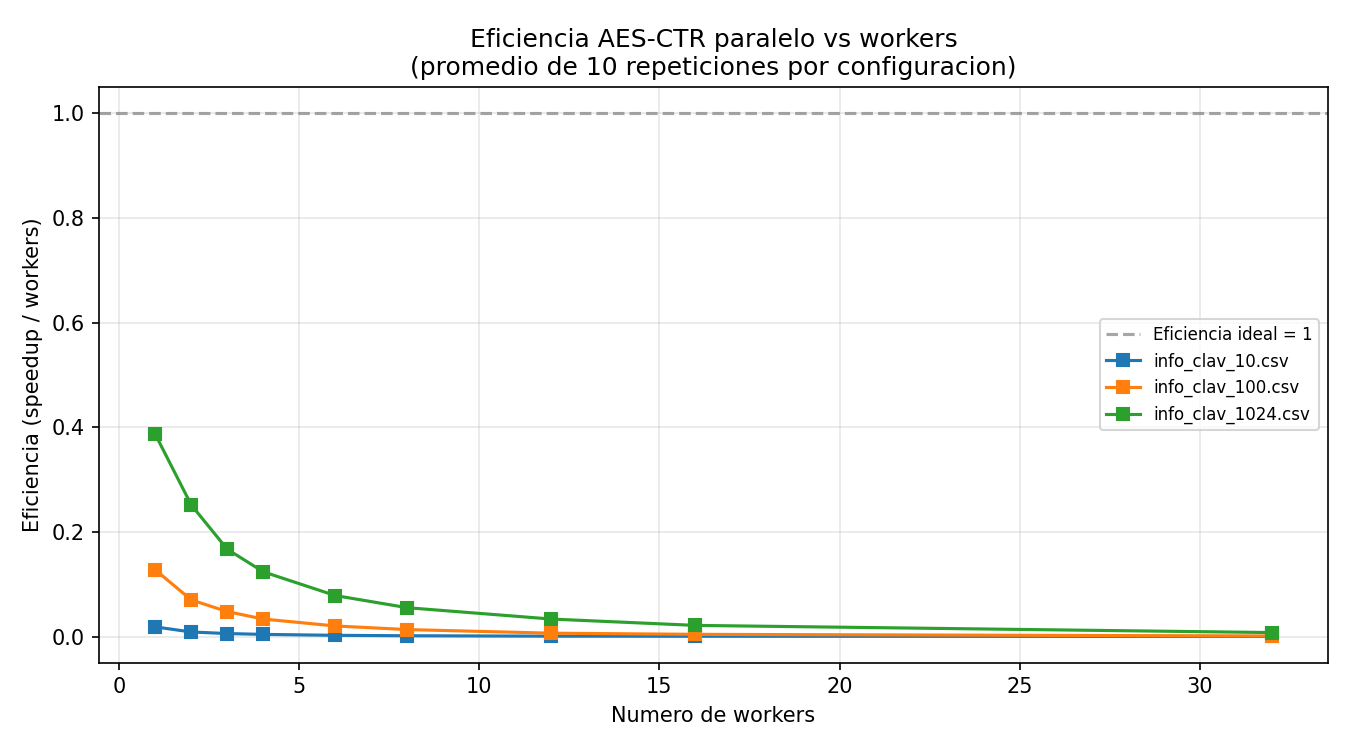
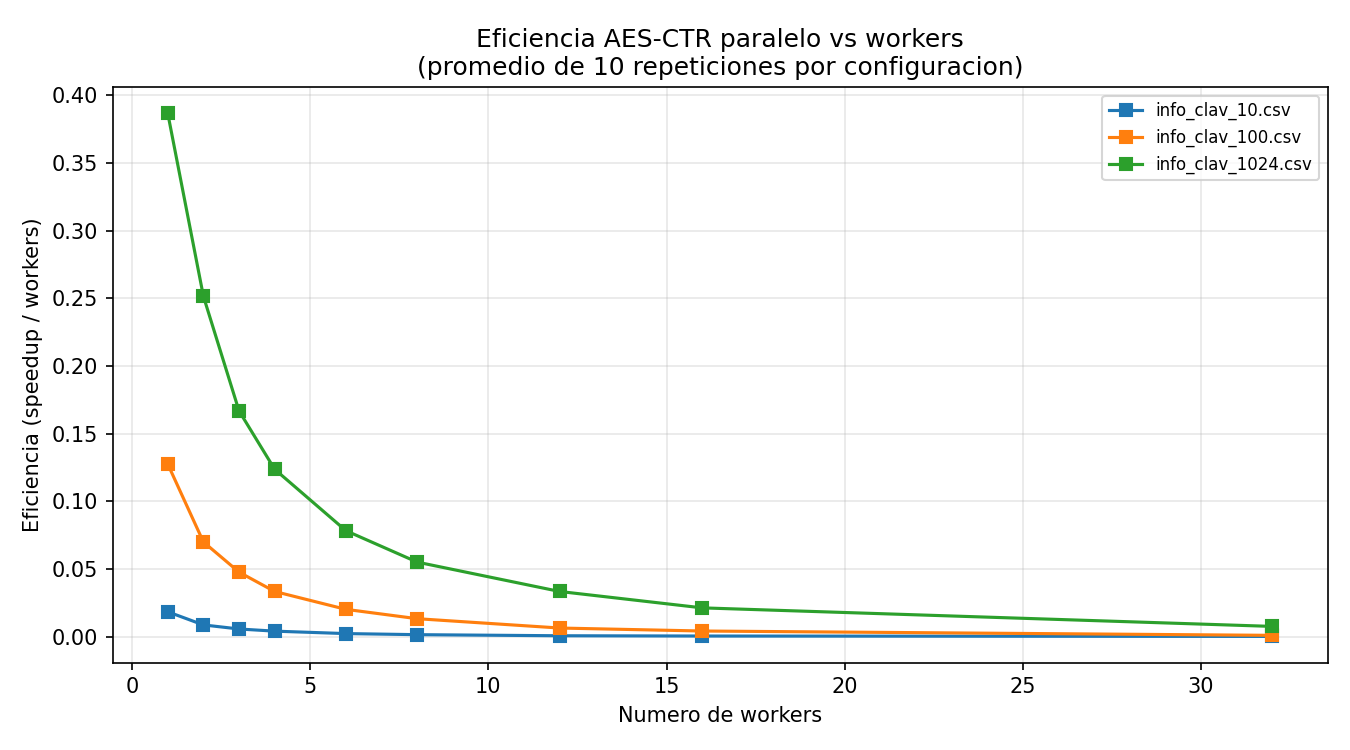
fix: eliminado rectas iguales a 1 como referencia en los graficos para mejorar visibilidad

diff --git a/Actividades/1_actividad/benchmark.py b/Actividades/1_actividad/benchmark.py
@@ -188,7 +188,6 @@ def plot_results(df: pd.DataFrame, output_dir: str) -> None:
 
     # — Grafico 2: Speedup vs workers —
     fig, ax = plt.subplots(figsize=(9, 5))
-    ax.axhline(1.0, linestyle="--", color="gray", alpha=0.7, label="Speedup = 1")
     for archivo in archivos:
         sub = df[df["archivo"] == archivo].sort_values("workers")
         ax.plot(sub["workers"], sub["speedup"], marker="o", label=archivo)
@@ -208,7 +207,6 @@ def plot_results(df: pd.DataFrame, output_dir: str) -> None:
 
     # — Grafico 3: Eficiencia vs workers —
     fig, ax = plt.subplots(figsize=(9, 5))
-    ax.axhline(1.0, linestyle="--", color="gray", alpha=0.7, label="Eficiencia ideal = 1")
     for archivo in archivos:
         sub = df[df["archivo"] == archivo].sort_values("workers")
         ax.plot(sub["workers"], sub["eficiencia"], marker="s", label=archivo)
